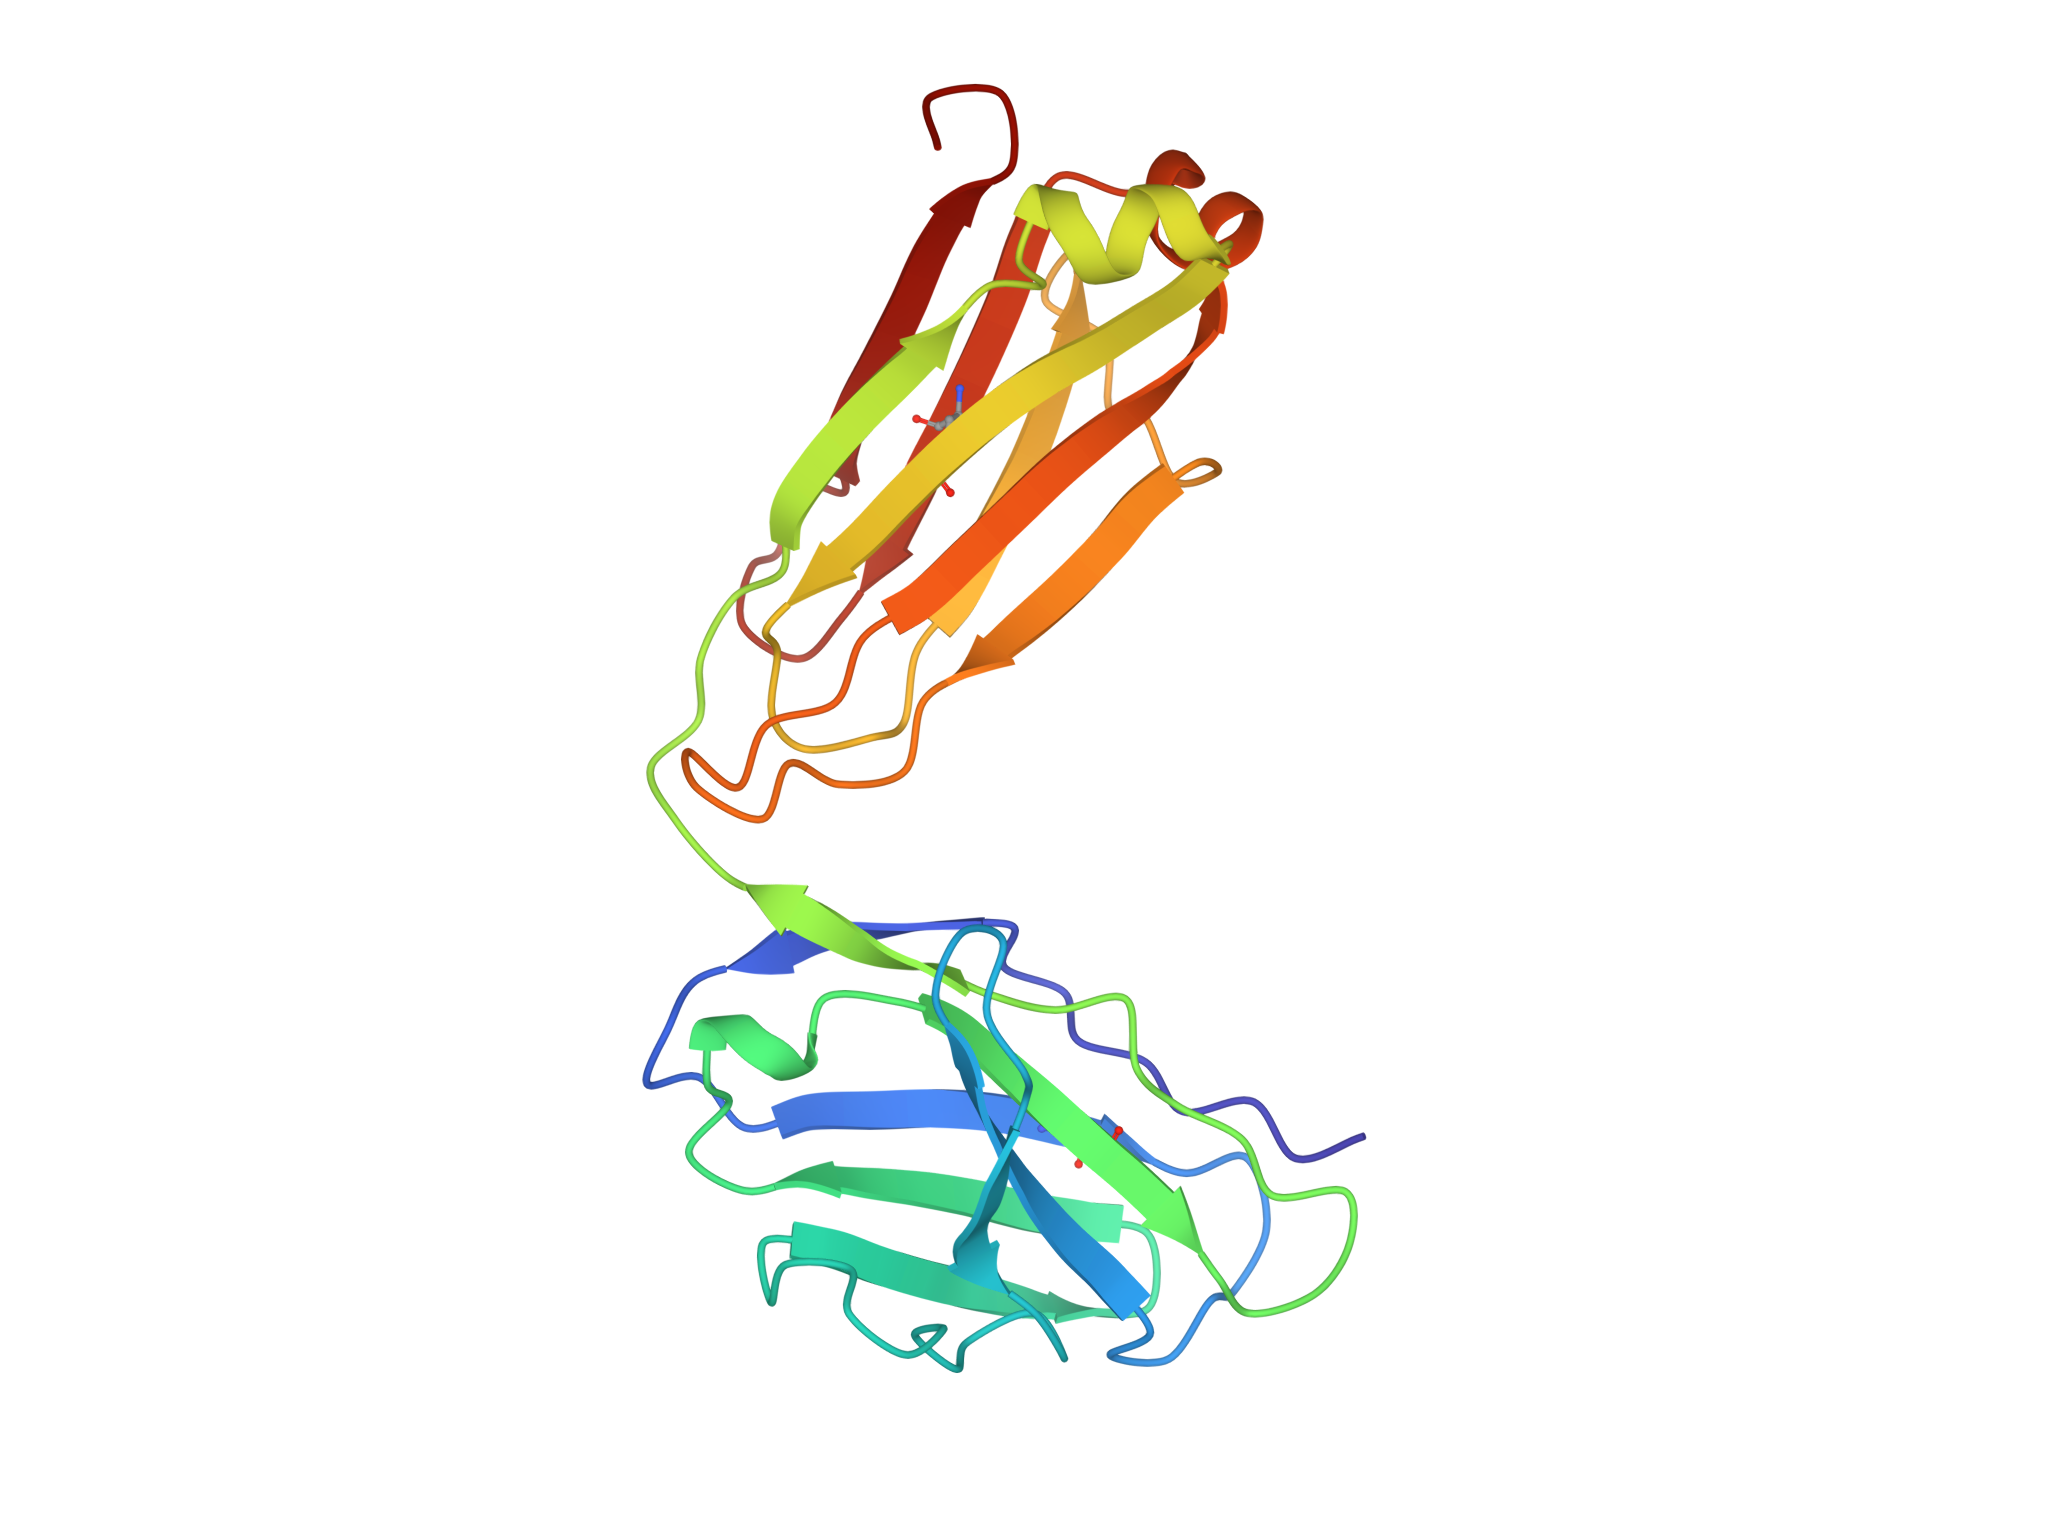
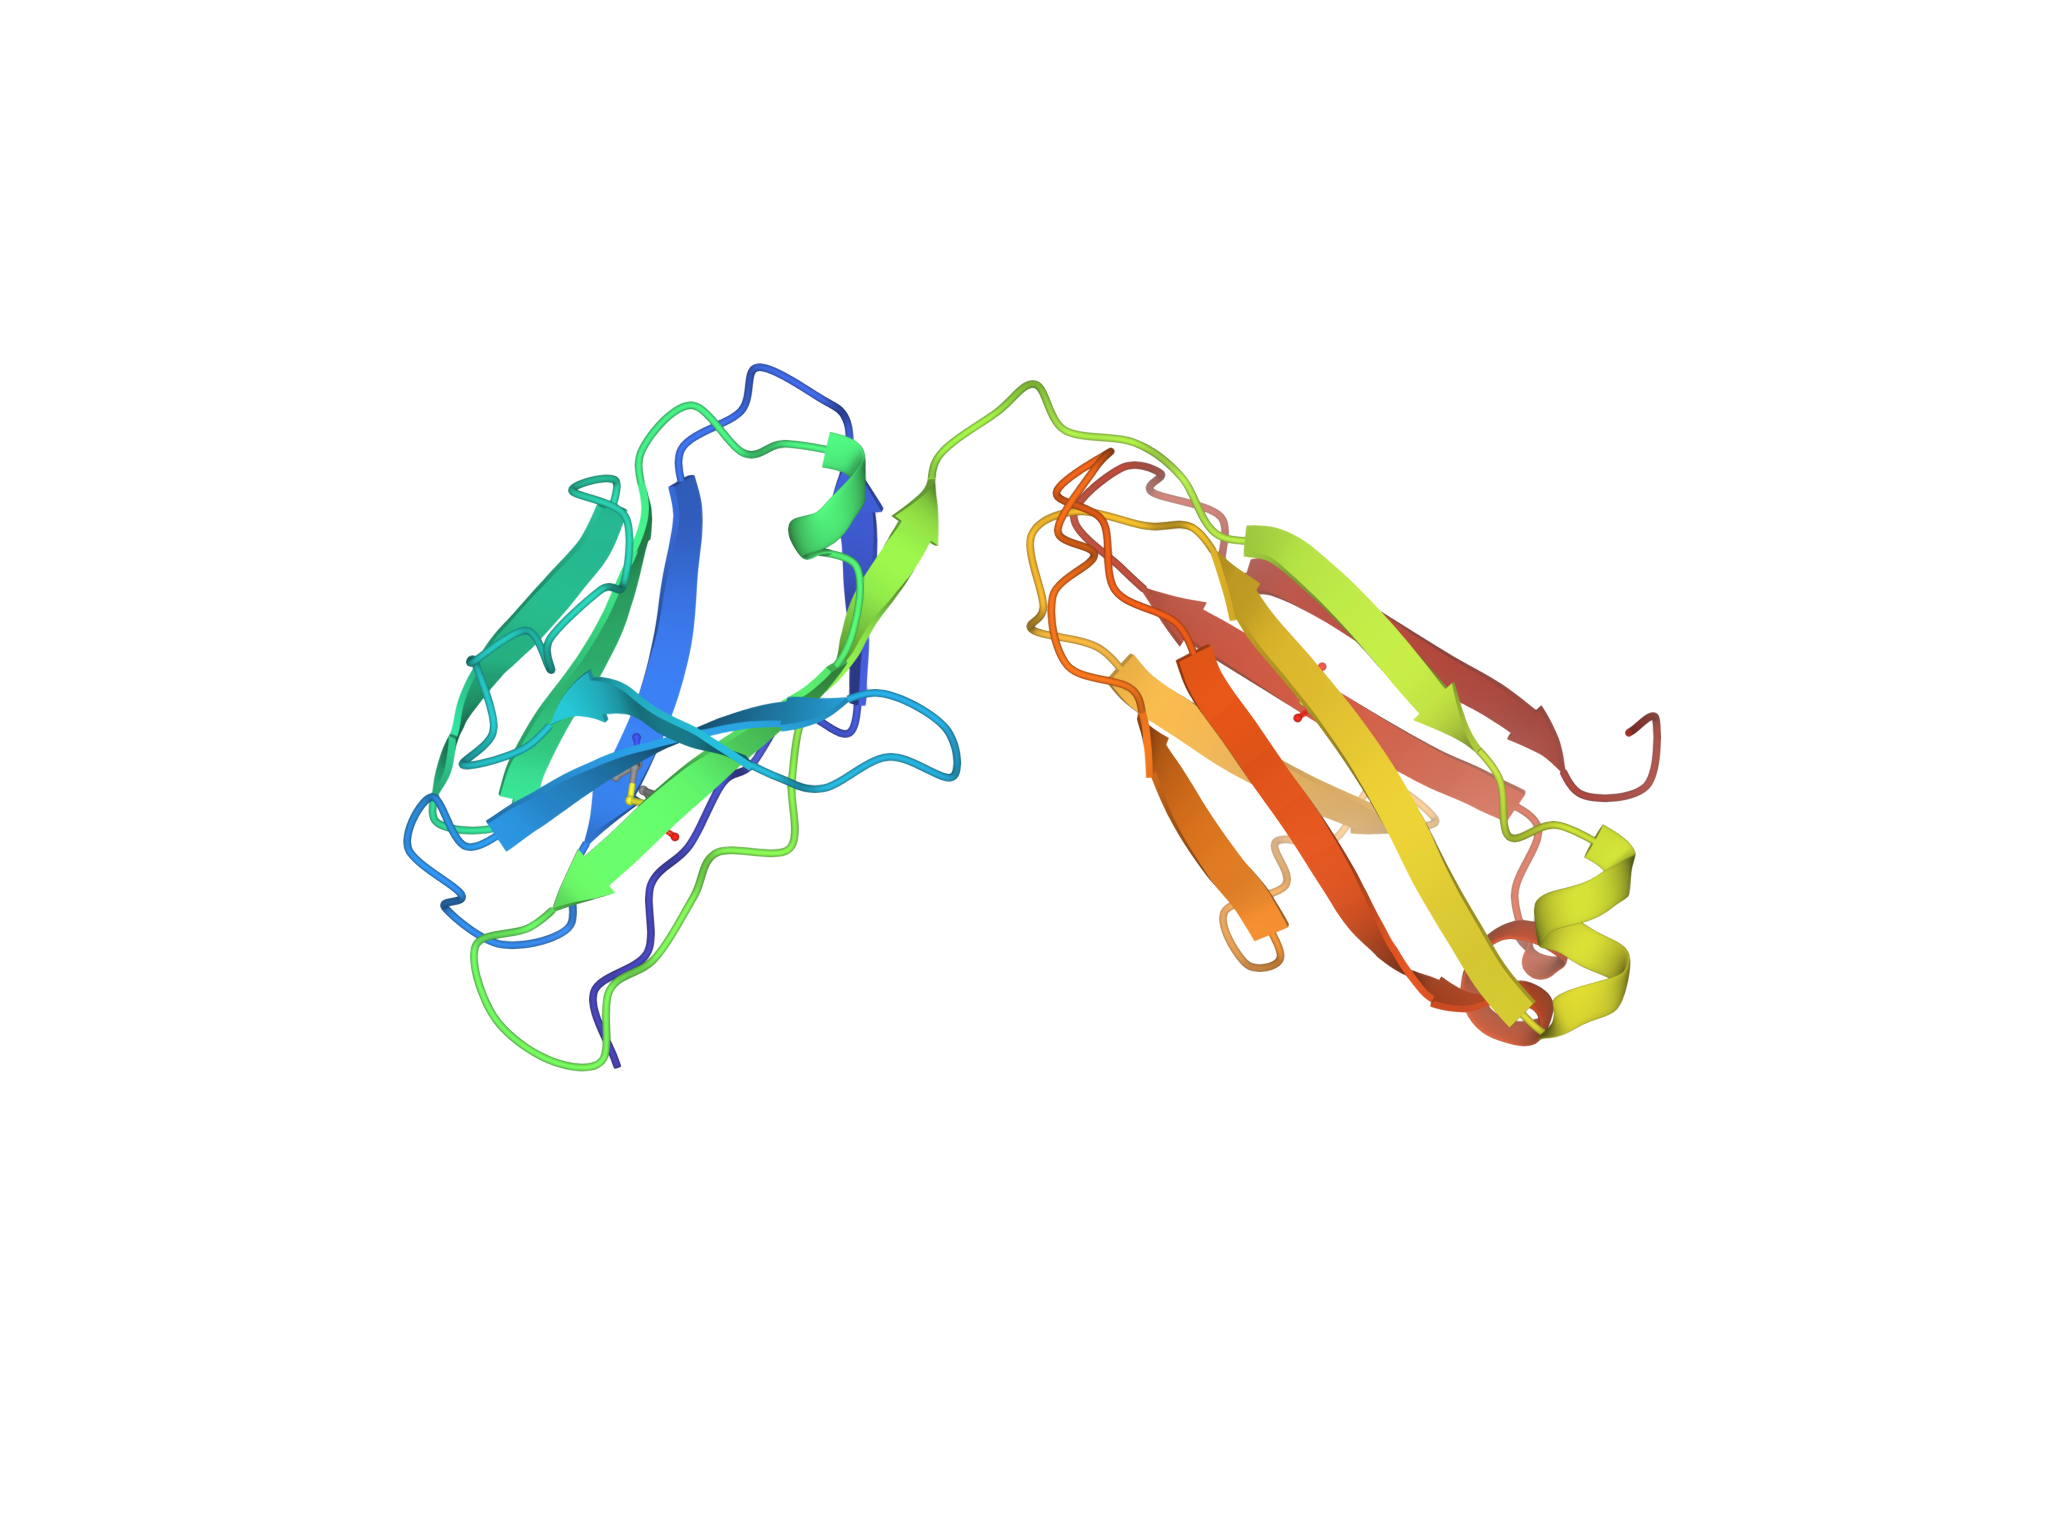
u

Changed region(s): [[0.1875, 0.0312, 0.8125, 0.9062], [0.6562, 0.7812, 0.6875, 0.8125]]

diff --git a/src/render.ts b/src/render.ts
@@ -39,7 +39,7 @@ import { Vec3 } from 'molstar/lib/mol-math/linear-algebra';
 import { Expression } from 'molstar/lib/mol-script/language/expression';
 import { VisualQuality } from 'molstar/lib/mol-geo/geometry/base';
 import { getStructureQuality } from 'molstar/lib/mol-repr/util';
-import { Camera } from 'molstar/lib/mol-canvas3d/camera';
+//import { Camera } from 'molstar/lib/mol-canvas3d/camera';
 import { SyncRuntimeContext } from 'molstar/lib/mol-task/execution/synchronous';
 import { AssetManager } from 'molstar/lib/mol-util/assets';
 import { RuntimeContext, Task } from 'molstar/lib/mol-task';
@@ -79,7 +79,9 @@ function getPositions(structure: Structure) {
         }
         m += elements.length * 3;
     }
+    console.log('////////////////////')
     console.log(positions)
+    console.log('////////////////////')
     return positions;
 }
 
@@ -351,22 +353,25 @@ export class ImageRenderer {
 
     focusCamera(structure: Structure) {
         const principalAxes = PrincipalAxes.ofPositions(getPositions(structure));
-        const { origin, dirA, dirC } = principalAxes.boxAxes;
+        const { origin, dirA, dirB, dirC } = principalAxes.boxAxes;
+        //console.log(principalAxes.boxAxes);
+        //console.log(principalAxes.momentsAxes);
         const radius = Vec3.magnitude(dirA);
 
         // move camera far in the direction from the origin, so we get a view from the outside
-        const position = Vec3();
+        /*const position = Vec3();
         Vec3.scaleAndAdd(position, position, origin, 100);
-        this.canvas3d.camera.setState({ position }, 0);
+        this.canvas3d.camera.setState({ position }, 0);*/
 
         // tight zoom
-        this.canvas3d.camera.focus(origin, radius, 0, dirA, dirC);
+        console.log(-dirB[0], -dirB[1], -dirB[2]);
+        this.canvas3d.camera.focus(origin, radius, 0, [-dirB[0], -dirB[1], -dirB[2]] as Vec3, dirC);
 
         // ensure nothing is clipped off in the front
-        const state = Camera.copySnapshot(Camera.createDefaultSnapshot(), this.canvas3d.camera.state);
+        /*const state = Camera.copySnapshot(Camera.createDefaultSnapshot(), this.canvas3d.camera.state);
         state.radius = structure.boundary.sphere.radius;
         state.radiusMax = structure.boundary.sphere.radius;
-        this.canvas3d.camera.setState(state);
+        this.canvas3d.camera.setState(state);*/
     }
 
     /**
